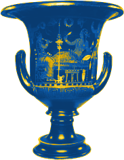
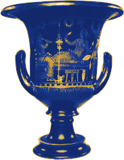
Coppa di caricamento nell'oro dell'abito greco

diff --git a/templates/_caricamento.html b/templates/_caricamento.html
@@ -1,5 +1,5 @@
 <style>
-#carica{position:fixed;top:0;left:0;right:0;bottom:0;z-index:9999;display:none;align-items:center;justify-content:center;background:rgba(13,94,175,.45)}
+#carica{position:fixed;top:0;left:0;right:0;bottom:0;z-index:9999;display:none;align-items:center;justify-content:center;background:rgba(29,63,149,.5)}
 #carica.on{display:flex}
 .carica-disco{width:92px;height:92px;border-radius:50%;background:#f6f1e6;border:3px solid #c99a3b;display:flex;align-items:center;justify-content:center;box-shadow:0 4px 16px rgba(0,0,0,.35);perspective:300px}
 .carica-disco img{width:54px;height:54px;object-fit:contain;animation:coppa-gira 1.4s linear infinite}
